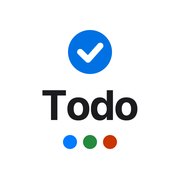
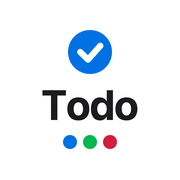
테마 색 3가지(블루·그린 7481 C·레드) 추가, 아이콘·시작 화면 색 점을 가족 테마 색으로
Claude-Session: https://claude.ai/code/session_01GsgfHmHkoPV4UDLNgyeVqF

Changed region(s): [[0.3333, 0.75, 0.6667, 0.8333]]

diff --git a/style.css b/style.css
@@ -1,4 +1,4 @@
-/* AIN Todo 스타일 v12 — 색·크기는 plan/design-guide.md를 따른다 */
+/* AIN Todo 스타일 v13 — 색·크기는 plan/design-guide.md를 따른다 */
 
 :root {
   --bg: #F2F2F7;
@@ -73,6 +73,18 @@
   --c-brown: #AC8E68;
   color-scheme: dark;
 }
+
+/* 테마 색 (설정에서 고름, 계정마다 기억): 블루(기본) · 그린(팬톤 7481 C) · 레드 — AIN Cost와 같음
+   - 버튼·선택한 날짜·체크·스위치는 --primary, 흰 바탕 위 작은 글씨·아이콘은 --primary-text
+   - 그린 버튼의 흰 글씨는 대비 2.66으로 기준(4.5)보다 낮음: 사용자가 고른 색이라 예외 (디자인 가이드 참고) */
+:root[data-accent="green"] { --primary: #00B74F; --primary-text: #007B33; }
+:root[data-accent="red"] { --primary: #D31E3D; --primary-text: #C50031; }
+@media (prefers-color-scheme: dark) {
+  :root:not([data-theme="light"])[data-accent="green"] { --primary-text: #00B74F; }
+  :root:not([data-theme="light"])[data-accent="red"] { --primary-text: #FF7076; }
+}
+:root[data-theme="dark"][data-accent="green"] { --primary-text: #00B74F; }
+:root[data-theme="dark"][data-accent="red"] { --primary-text: #FF7076; }
 
 * { box-sizing: border-box; }
 html { -webkit-text-size-adjust: 100%; }
@@ -332,6 +344,7 @@ body.locked { overflow: hidden; }
 .sheet.tall { height: calc(100% - var(--kb, 0px) - 40px - env(safe-area-inset-top, 0px)); }
 .seg.wide { flex: 1; }
 .seg.wide button { flex: 1; }
+.seg .sw { display: inline-block; width: 10px; height: 10px; border-radius: 5px; margin-right: 6px; vertical-align: 0; }
 .hint { margin: -6px 4px 0; font-size: 13px; color: var(--sub); }
 .row.link { width: 100%; justify-content: flex-start; color: var(--primary-text); }
 .cat-row { background: var(--card); position: relative; transition: transform .15s; }
@@ -379,6 +392,7 @@ body.locked { overflow: hidden; }
 .splash-mark { display: flex; flex-direction: column; align-items: center; }
 .splash-circle { width: 46px; height: 46px; margin-bottom: 18px; animation: splash-pop .45s cubic-bezier(.3, 1.5, .5, 1) both; }
 .splash-circle svg { display: block; width: 100%; height: 100%; }
+.splash-circle circle { fill: var(--primary); }
 .splash-check {
   fill: none; stroke: #FFFFFF; stroke-width: 6.5; stroke-linecap: round; stroke-linejoin: round;
   stroke-dasharray: 60; stroke-dashoffset: 60; animation: splash-draw .35s ease-out .4s forwards;
@@ -386,9 +400,10 @@ body.locked { overflow: hidden; }
 .splash-word { font-size: 24px; line-height: 1; margin: 0 0 16px; animation: splash-up .45s ease-out .7s both; }
 .splash-dots { display: flex; gap: 7px; }
 .splash-dots i { width: 8px; height: 8px; border-radius: 4px; animation: splash-dot .3s cubic-bezier(.3, 1.6, .5, 1) both; }
-.splash-dots i:nth-child(1) { background: var(--c-blue); animation-delay: 1s; }
-.splash-dots i:nth-child(2) { background: var(--c-green); animation-delay: 1.1s; }
-.splash-dots i:nth-child(3) { background: var(--c-orange); animation-delay: 1.2s; }
+/* 점 3개 = 세 테마 색 (블루·그린·레드 = 아빠·아내·딸), 화면 모드와 상관없이 같은 색 */
+.splash-dots i:nth-child(1) { background: #0071E3; animation-delay: 1s; }
+.splash-dots i:nth-child(2) { background: #00B74F; animation-delay: 1.1s; }
+.splash-dots i:nth-child(3) { background: #D31E3D; animation-delay: 1.2s; }
 @keyframes splash-pop { from { transform: scale(.4); opacity: 0; } to { transform: none; opacity: 1; } }
 @keyframes splash-draw { to { stroke-dashoffset: 0; } }
 @keyframes splash-up { from { transform: translateY(10px); opacity: 0; } to { transform: none; opacity: 1; } }

diff --git a/index.html b/index.html
@@ -11,20 +11,21 @@
   <link rel="icon" type="image/png" href="apple-touch-icon.png">
   <title>AIN Todo</title>
   <script>
-    // 저장된 화면 모드를 먼저 적용해서 색이 깜빡이지 않게
+    // 저장된 화면 모드와 테마 색을 먼저 적용해서 색이 깜빡이지 않게
     try {
-      const m = JSON.parse(localStorage.getItem('ainTodo')).settings.theme;
-      if (m === 'light' || m === 'dark') document.documentElement.setAttribute('data-theme', m);
+      const s = JSON.parse(localStorage.getItem('ainTodo')).settings;
+      if (s.theme === 'light' || s.theme === 'dark') document.documentElement.setAttribute('data-theme', s.theme);
+      if (s.accent === 'green' || s.accent === 'red') document.documentElement.setAttribute('data-accent', s.accent);
     } catch (e) {}
   </script>
-  <link rel="stylesheet" href="style.css?v=12">
+  <link rel="stylesheet" href="style.css?v=13">
 </head>
 <body>
   <!-- 시작 화면 (앱을 새로 열 때만, 약 1.8초) -->
   <div class="splash" id="splash" aria-hidden="true">
     <div class="splash-mark">
       <div class="splash-circle">
-        <svg viewBox="0 0 64 64"><circle cx="32" cy="32" r="32" fill="#0071E3" stroke="none"/><path class="splash-check" d="M20 33 L28.5 41.5 L44.5 24"/></svg>
+        <svg viewBox="0 0 64 64"><circle cx="32" cy="32" r="32" stroke="none"/><path class="splash-check" d="M20 33 L28.5 41.5 L44.5 24"/></svg>
       </div>
       <div class="wordmark splash-word"><b>AIN</b> Todo</div>
       <div class="splash-dots"><i></i><i></i><i></i></div>
@@ -166,6 +167,14 @@
           <button type="button" data-v="auto">자동</button>
         </div></div></div>
 
+        <div class="group-label">테마 색</div>
+        <div class="group"><div class="row"><div class="seg wide" id="sAccent">
+          <button type="button" data-v="blue"><i class="sw" style="background:#0071E3"></i>블루</button>
+          <button type="button" data-v="green"><i class="sw" style="background:#00B74F"></i>그린</button>
+          <button type="button" data-v="red"><i class="sw" style="background:#D31E3D"></i>레드</button>
+        </div></div></div>
+        <p class="hint">버튼과 강조 색이 바뀌어요. 이 계정의 모든 기기에 같이 적용돼요.</p>
+
         <div class="group-label">한 주의 시작</div>
         <div class="group"><div class="row"><div class="seg wide" id="sWeek">
           <button type="button" data-v="mon">월요일</button>
@@ -221,13 +230,13 @@
   <script src="https://www.gstatic.com/firebasejs/10.12.2/firebase-app-compat.js"></script>
   <script src="https://www.gstatic.com/firebasejs/10.12.2/firebase-auth-compat.js"></script>
   <script src="https://www.gstatic.com/firebasejs/10.12.2/firebase-firestore-compat.js"></script>
-  <script src="app.js?v=4"></script>
+  <script src="app.js?v=5"></script>
   <script src="calendar.js?v=2"></script>
   <script src="tasks.js?v=3"></script>
   <script src="sheet.js?v=3"></script>
   <script src="drawer.js?v=1"></script>
-  <script src="settings.js?v=2"></script>
-  <script src="sync.js?v=1"></script>
+  <script src="settings.js?v=3"></script>
+  <script src="sync.js?v=2"></script>
   <script src="main.js?v=6"></script>
 </body>
 </html>

diff --git a/settings.js b/settings.js
@@ -1,4 +1,4 @@
-// AIN Todo 설정 v2: 화면 모드, 한 주의 시작, 캘린더 기본 보기, 카테고리 관리, 계정, 백업 내보내기
+// AIN Todo 설정 v3: 화면 모드, 테마 색, 한 주의 시작, 캘린더 기본 보기, 카테고리 관리, 계정, 백업 내보내기
 
 const settingsOverlay = document.getElementById('settingsOverlay');
 const sCats = document.getElementById('sCats');
@@ -8,7 +8,7 @@ let openCatId = null; // 이름·색을 고치는 중인 카테고리
 
 function renderSettings() {
   const s = state.settings;
-  [['sTheme', s.theme], ['sWeek', s.weekStart], ['sView', s.calendarView]].forEach(([id, v]) => {
+  [['sTheme', s.theme], ['sAccent', s.accent || 'blue'], ['sWeek', s.weekStart], ['sView', s.calendarView]].forEach(([id, v]) => {
     document.getElementById(id).querySelectorAll('button').forEach(b => b.classList.toggle('on', b.dataset.v === v));
   });
   document.getElementById('accountEmail').textContent = (cloud.user && cloud.user.email) || '';
@@ -48,7 +48,7 @@ function openSettings() {
 function setSetting(key, value) {
   state.settings[key] = value;
   saveState();
-  if (key === 'theme') applyTheme();
+  if (key === 'theme' || key === 'accent') applyTheme();
   if (key === 'calendarView') ui.expanded = value === 'month'; // 바로 보여 주기
   renderSettings();
   renderAll();
@@ -56,6 +56,9 @@ function setSetting(key, value) {
 
 document.getElementById('sTheme').addEventListener('click', e => {
   const b = e.target.closest('button'); if (b) setSetting('theme', b.dataset.v);
+});
+document.getElementById('sAccent').addEventListener('click', e => {
+  const b = e.target.closest('button'); if (b) setSetting('accent', b.dataset.v);
 });
 document.getElementById('sWeek').addEventListener('click', e => {
   const b = e.target.closest('button'); if (b) setSetting('weekStart', b.dataset.v);

diff --git a/app.js b/app.js
@@ -1,4 +1,4 @@
-// AIN Todo 공통 v4: 날짜 도우미, 저장소, 상태, 화면 모드
+// AIN Todo 공통 v5: 날짜 도우미, 저장소, 상태, 화면 모드·테마 색
 
 const STORE_KEY = 'ainTodo';
 const WEEK_NAMES = ['일', '월', '화', '수', '목', '금', '토'];
@@ -34,8 +34,8 @@ const DEFAULT_CATEGORIES = [
 let state = {
   categories: DEFAULT_CATEGORIES,
   tasks: [],
-  // theme: light | dark | auto, calendarView: week | month
-  settings: { weekStart: 'mon', theme: 'auto', calendarView: 'week' }
+  // theme: light | dark | auto (기기마다), accent: blue | green | red (계정마다), calendarView: week | month
+  settings: { weekStart: 'mon', theme: 'auto', accent: 'blue', calendarView: 'week' }
 };
 
 // 저장하지 않는 화면 상태
@@ -76,12 +76,14 @@ function saveState() {
   if (typeof cloudSave === 'function') cloudSave();
 }
 
-// 화면 모드: '자동'이면 아이폰 설정을 따름
+// 화면 모드('자동'이면 아이폰 설정을 따름)와 테마 색
 function applyTheme() {
-  const mode = state.settings.theme;
+  const { theme: mode, accent } = state.settings;
   const root = document.documentElement;
   if (mode === 'light' || mode === 'dark') root.setAttribute('data-theme', mode);
   else root.removeAttribute('data-theme');
+  if (accent === 'green' || accent === 'red') root.setAttribute('data-accent', accent);
+  else root.removeAttribute('data-accent');
 }
 
 // 아직 하지 않았고, 넘기지도 않은 지난 할 일

diff --git a/sync.js b/sync.js
@@ -1,4 +1,4 @@
-// AIN Todo 클라우드 v1: 구글 로그인 + 실시간 동기화 (Firebase Auth + Firestore)
+// AIN Todo 클라우드 v2: 구글 로그인 + 실시간 동기화 (Firebase Auth + Firestore)
 //  - 클라우드 위치: users/{uid} 문서(카테고리, 설정) + users/{uid}/tasks/{할 일 id} 문서 하나씩
 //  - 할 일을 하나씩 따로 저장해서, 폰과 PC에서 서로 다른 할 일을 고쳐도 덮어쓰지 않음
 //  - 다른 기기에서 바꾸면 onSnapshot으로 바로 받아서 화면을 다시 그림
@@ -147,6 +147,7 @@ function onUserSnap(snap) {
     LOCAL_ONLY_SETTINGS.forEach(k => { local[k] = state.settings[k]; });
     state.settings = { ...state.settings, ...(d.settings || {}), ...local };
     cloud.shadowUser = stableStringify(userPayload());
+    applyTheme(); // 다른 기기에서 테마 색을 바꿨으면 바로 반영
   }
   cloud.gotUser = true;
   afterSnapshot();
